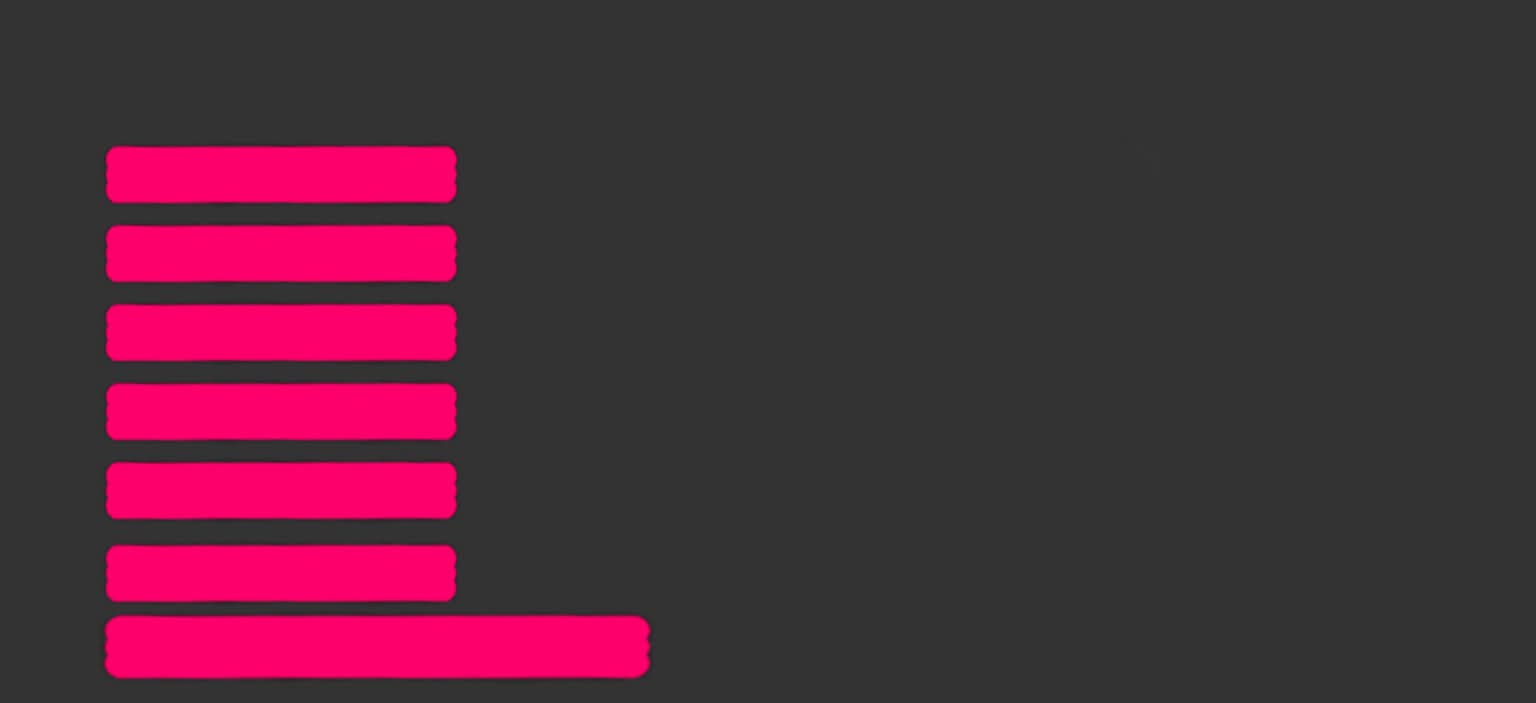
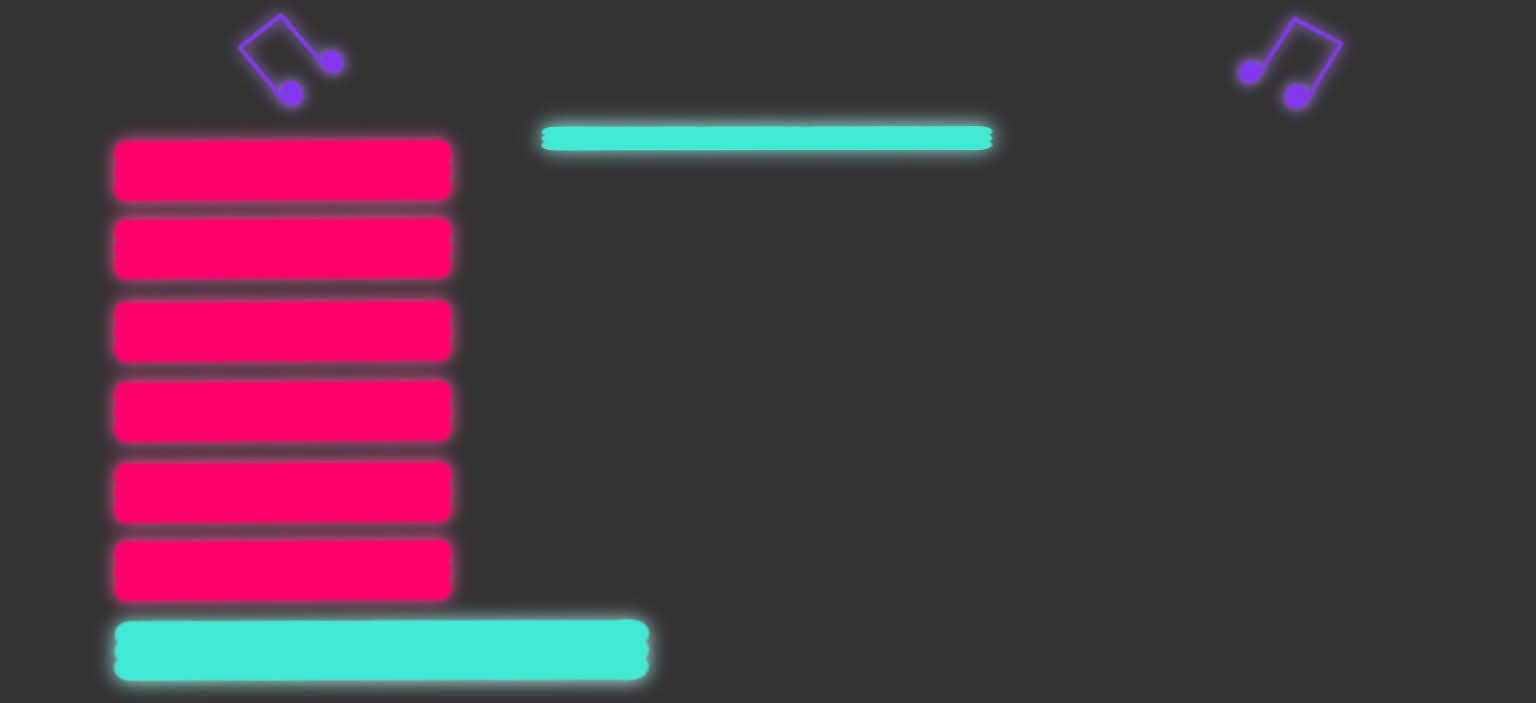
Working

Changed region(s): [[0.0625, 0.0, 0.4375, 0.9858], [0.3438, 0.1494, 0.6562, 0.239], [0.7812, 0.0, 0.875, 0.1792]]

diff --git a/CYOAUdio/sketch1.js b/CYOAUdio/sketch1.js
@@ -28,7 +28,7 @@ let boombox2;
 let titleBg;
 let instrumentBg;
 let state = 0; // 0: Title, 1: Instructions, 2: Piano, 3: Drums, 4: Guitar, 5: Mix
-let bbpiano, bbdrums, bbguitar;
+let bbpiano, bbdrums, bbguitar,bbmaster;
 
 let totalMovement = 100;
 
@@ -56,6 +56,8 @@ function preload() {
   titleBg = loadImage("assets/testerfrontbg.jpg");
   instrumentBg = loadImage("assets/instrumentpage.jpg")
   bbdrums = loadImage("assets/BBdrums.png");
+  bbmaster = loadImage("assets/BBmaster.png");
+
 }
 
 function setup() {
@@ -143,6 +145,7 @@ function draw() {
   }
   if (state === 4) {
     drawInstrumentPage("Guitar", guitarUI);
+
   }
 
   if (state === 5) {
@@ -150,6 +153,7 @@ function draw() {
     textSize(64);
     fill(255);
     text("Mixing Booth", width / 2, 80);
+    image(bbmaster, 800,100, 417, 597);
 
     masterGain.amp(masterVolumeSlider.value());
 
@@ -177,7 +181,6 @@ function draw() {
     }
   }
 
-  // Footer text
   fill(255);
   textSize(14);
   textAlign(RIGHT, BOTTOM);
